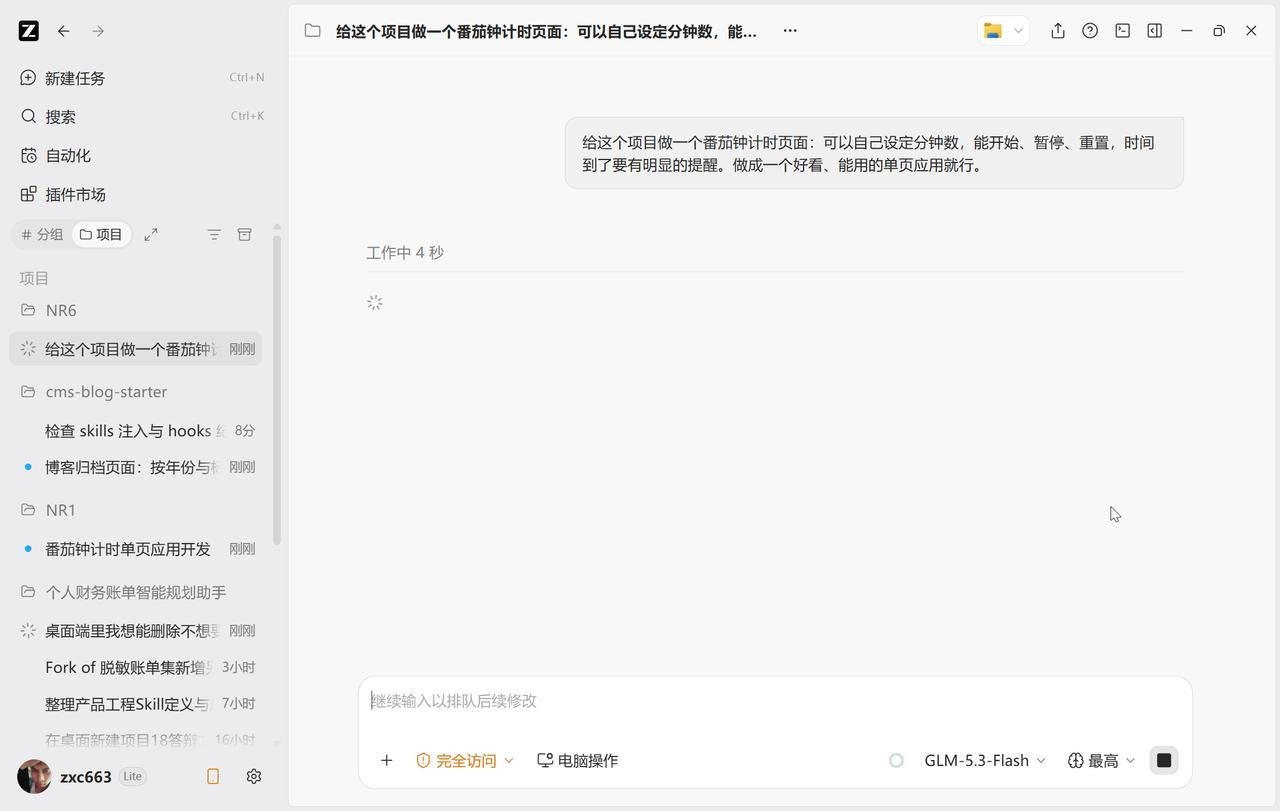
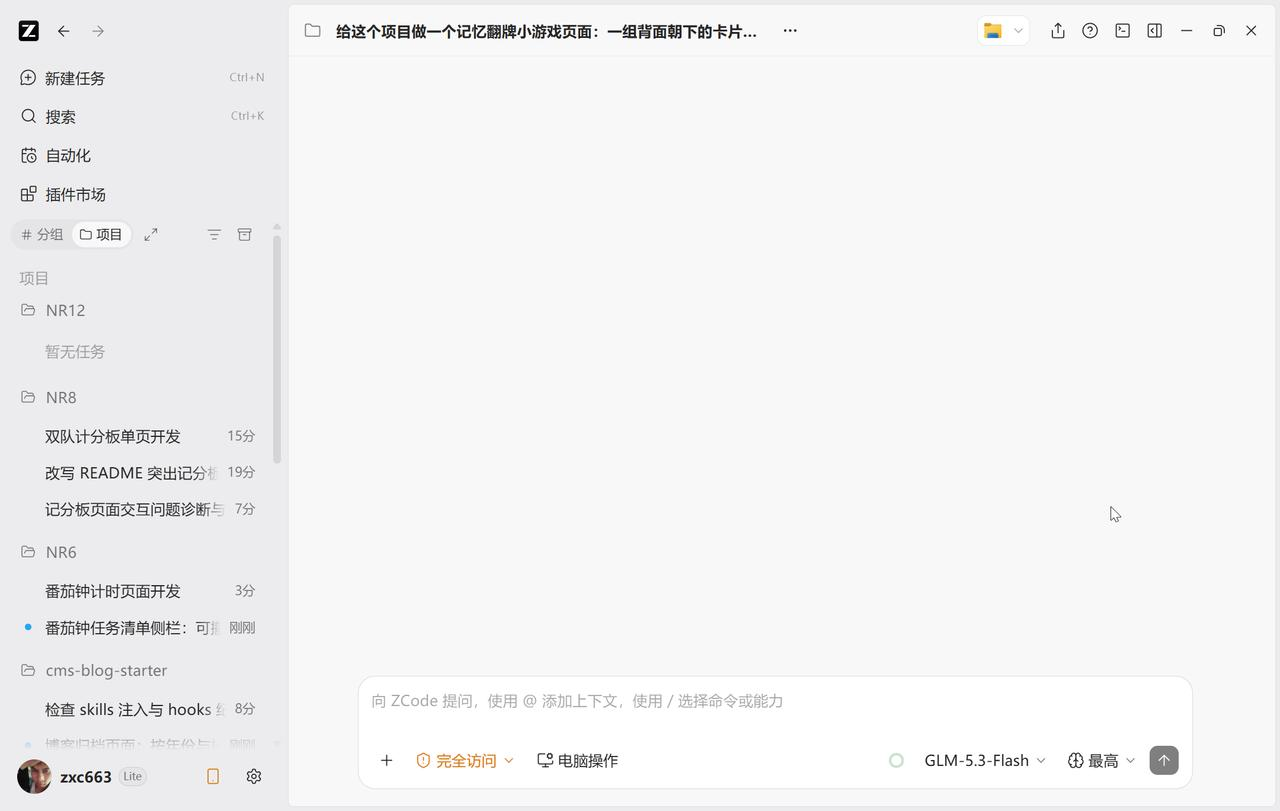
docs(收官): NR13 冷启动档3 完整自治闭环入档+product-object 行升三有齐（原生正例 fail→修→绿）+Release 端到端验证 8/8+批五流水+HANDOVER 终版；十三样本全判定

diff --git a/docs/HANDOVER.md b/docs/HANDOVER.md
@@ -5,7 +5,7 @@
 
 ## 一、现状一句话
 
-第四包 `shisan-xinuo-product` **v0.2.4** 双仓在线（家族 **v3.3.0**）。**2026-09-24 战役（01:38-09:00 无限授权批）完成历史性收口**：①**真实新会话生效链闭合**（原「最后一环」）——十个 CUA 真会话探针（NR1-NR10）实证：注入核心 zxc663 自检+hooks 双通道+复述/承载纪律全链生效；产品包自然触发曾失败（NR1）→断点定位（可见✅注入✅hooks✅→选择层）→v0.2.2 触发词前置→NR6/NR8/NR12 三样本触发成功（**A/B 终局：对照 0/1 vs 处理 3/3，三任务域**）②三触发族（「做一个XX页面」/审查「难用别扭」/档0 文案）×四档位（档0 豁免梯度 L1 快速通道 46 秒/档1 轻量/档2 全流程/档3 四件套含回归 golden sample）全走通 ③**L0/L5 判据空白双层闭合**（l0-l5-gate 第六门禁，11 格电池+真会话检出 3/3）④**七门禁台账全行有着落**（F2/F5 假阳假阴修复、F6 参数兼容、C7 真载体契约对账、usage-probe 衰减警报实弹、frontend-lint-gate 强制5/6 机器化）⑤四个 GitHub Release（v0.2.1-v0.2.4）⑥实践条款入本体（无人值守禁静默下沉/反借口 #12 通道归因隔离实验/档位判例 N8-1、N7-1）。全文：`docs/real-session/nr-batch1-judgment.md` + `docs/verification-ledger.md`（三有判据台账）。
+第四包 `shisan-xinuo-product` **v0.2.4** 双仓在线（家族 **v3.3.0**）。**2026-09-24 战役（01:38-09:00 无限授权批）完成历史性收口**：①**真实新会话生效链闭合**（原「最后一环」）——十个 CUA 真会话探针（NR1-NR10）实证：注入核心 zxc663 自检+hooks 双通道+复述/承载纪律全链生效；产品包自然触发曾失败（NR1）→断点定位（可见✅注入✅hooks✅→选择层）→v0.2.2 触发词前置→NR6/NR8/NR12 三样本触发成功（**A/B 终局：对照 0/1 vs 处理 3/3，三任务域**）②三触发族（「做一个XX页面」/审查「难用别扭」/档0 文案）×四档位（档0 豁免梯度 L1 快速通道 46 秒/档1 轻量/档2 全流程/档3 四件套含回归 golden sample）全走通 ③**L0/L5 判据空白双层闭合**（l0-l5-gate 第六门禁，11 格电池+真会话检出 3/3）④**七门禁台账全行有着落**（F2/F5 假阳假阴修复、F6 参数兼容、C7 真载体契约对账、usage-probe 衰减警报实弹、frontend-lint-gate 强制5/6 机器化；NR13 完整自治闭环=原生工件自跑门禁见红→修→绿）⑤四个 GitHub Release（v0.2.1-v0.2.4）⑥实践条款入本体（无人值守禁静默下沉/反借口 #12 通道归因隔离实验/档位判例 N8-1、N7-1）。全文：`docs/real-session/nr-batch1-judgment.md` + `docs/verification-ledger.md`（三有判据台账）。
 
 ## 二、必读清单（按序）
 
@@ -24,7 +24,7 @@
 
 1. **速裁包批复**（`docs/ruling-package.md`）：Q1-Q8 默认裁决追认／A/B 四指标口径追认／decision-ledger 漂移两案（建议合并入源库）／档0-档3 改名与触发词密集化追认——**一批全解，不阻塞任何主线**
 2. **触发 A/B 扩样**：NR6/NR8 为 N=2 处理组 vs NR1 对照——如需消除随机性，换任务域再加冷启动样本即可（SOP 见 nr-batch1-judgment §二）
-3. **会话原生 product-object JSON 正例**：无人值守轻量档不产 JSON 属设计内行为；待真实项目档2+ 任务由会话原生产出后，product-object-gate 行升满 ✅
+3. **~~会话原生 product-object JSON 正例~~（**已闭合**：NR13 原生产出+自跑见红+修绿，product-object 行升 ✅ 三有齐）
 4. **F1/F3 平台侧缺陷**（CLI provider 缺失／ponytail·ux-feature-design 双目录注册）——非 Skill 本体，待平台修复或用户裁决去重
 5. **Gitee 同步＋npm**（队列⑥残项）：Gitee 令牌格式问题待解（用户侧）；npm 打包价值待评估
 6. **两组工具箱浏览器人工走查｜G 档 §6 抖音关键帧**（需真人）
@@ -41,8 +41,8 @@
 
 | 仓 | 基线（2026-09-24 04:36） | 备注 |
 |---|---|---|
-| 设计部（本仓） | `1604414`（批四终局） | GitHub 已推同步；判定档/台账/判例/证据 34 件全在仓 |
-| 源库（家族） | `59098ea`（product v0.2.4） | 本地 git 仓（**无远端**——交接建议：源库入 git 远端，见下） |
+| 设计部（本仓） | `06:45 终批`（批五） | GitHub 已推同步；判定档/台账/判例/证据 34 件全在仓 |
+| 源库（家族） | `59098ea`（product v0.2.4，终版） | 本地 git 仓（**无远端**——交接建议：源库入 git 远端，见下） |
 | 安装根 | `~/.agents/skills/shisan-xinuo-product`＝源库逐字节一致（除 decision-ledger 已登记漂移） | 一致性判据=`diff -rq` 全目录 |
 | 注入副本 | 5 平台 v3.3.0 HASH-OK（`b9b00ca712cc`，本轮未动） | |
 | 实验/真会话工作区 | `D:/产品工程真会话-20260924/`（NR1-NR10+release-stage） | 证据已入仓；本体=独立 git 仓各自基线 |

diff --git a/docs/verification-ledger.md b/docs/verification-ledger.md
@@ -9,7 +9,7 @@
 | 条款 | 门禁 | 反例拦截（变异） | 预演运行（无头） | 真实载体运行 | 状态 |
 |---|---|---|---|---|---|
 | statechart C1-C7 | statechart-gate.py（--selftest 两态） | 四变异 A-D 全拦（reverse-injection/EVIDENCE.md，2026-09-23）+ **✅ C7 真载体双向对账电池**（NR7 契约正例+m1/m2 变异，product-object/C7-RESULTS.md） | N6d 投票/N6e 书签独立复跑绿 | **✅ NR6+NR7 真会话双 statechart（pomodoro/task-list 独立复跑双 exit=0；NR7 含 C7 契约对账）** | ✅ 三有齐 |
-| product-object P1-P4 | product-object-gate.py（selftest+语料正负） | **✅ NR6 真语料四变异全拦且归因精确**（mutation-batteries/product-object/，2026-09-24） | 试验仓语料转写+甲仓检出 10 缺口 | **✅ 真实语料正例 exit=0**（NR6 忠实转写；会话原生正例待真实项目档2+） | 🟡→✅（按诚实标注口径：转写正例升半格，原生正例缺项如实留） |
+| product-object P1-P4 | product-object-gate.py（selftest+语料正负） | **✅ NR6 真语料四变异全拦且归因精确**（mutation-batteries/product-object/，2026-09-24） | 试验仓语料转写+甲仓检出 10 缺口 | **✅ 会话原生正例已获**（NR13 notewall.object.json：会话自跑门禁见真红 P2→修→绿，主会话独立复跑互证；2026-09-24 06:3x） | ✅ 三有齐（原生正例为「fail→修→绿」形态，比纯放行更强） |
 | spec-trace T4/T5 | spec-trace-gate.py（selftest 4 断言含 F2 回归） | **✅ 变异电池 m1-m5 全拦+m6 假阳回归锚（mutation-batteries/spec-trace/，2026-09-24；F2 假阳已修：源库 03f7ab2=安装根）** | 闭环试验十环内用过（closed-loop-report） | **NR1 真会话** | 🟡 |
 | registry 查表归因 | registry-gate.py（selftest） | **✅ 博客仓真载体电池：基线+注入未标记新组件 exit=1 精确命中 NewUnmarked**（mutation-batteries/registry-blog/） | 闭环试验内 | **✅ 博客仓 194 组件**（基线 201 存量豁免/新组件精确逮/清理无残留，2026-09-24） | ✅ 三有齐 |
 | usage-probe 衰减 | usage-probe.py（selftest） | **✅ 警报实弹演练：财务仓 7 天零提及→exit=1 衰减警报如实触发**（2026-09-24；v0 语义=文本提及非真实触发，自带诚实边界） | — | **✅ 真会话工作区目录 90 提及/近窗 9 命中**（NR1-NR8 语料） | ✅ 三有齐（v0 口径） |

diff --git a/docs/real-session/nr-batch1-judgment.md b/docs/real-session/nr-batch1-judgment.md
@@ -18,6 +18,7 @@
 | NR10 | NR8 同项目续任务 | 档0 探针：README 单句文案换风格，「其他什么都别动」 | 档0（L1 快速通道） | ✅ 完案（04:24，46 秒） | **豁免梯度 ✅（成本防线）**：L1 快速通道自declared+极简 GATE（单句替换+grep/diff 验）+git diff 确认仅 1 行变更——档0 小改未被跑道重罚，「正确但昂贵」担忧被 §7 档0 豁免梯度实际化解 |
 | NR11 | 财务仓（大真实项目） | 审查触发跨项目：「统计页用着别扭，走查挑一两处小毛病修掉，别大改」 | 审查路径（档0-档1） | ✅ 完案（05:22，commit 93c5fb6，121 轮） | **审查触发×跨项目泛化 ✅**：两处修复（占比卡 echarts6 labelLine 锚点截断/趋势图峰值标注粒度对称）+IAB 真实库副本三视图×双主题走查+图例扇区回归+vite build 0 error+**发现未修 3 项诚实入册**；+36/-6 行；L-011 隐私清理自应用（删真实数据临时副本） |
 | NR12 | D:\产品工程真会话-20260924\NR12 | 记忆翻牌游戏（第三任务域冷启动 #4） | 档2 | ✅ 完案（05:54，commit 59b4111） | **产品包触发 ✅（F4 达 N=3）**：契约档+statechart JSON+承载三件；statechart-gate 自跑+独立复跑双 exit=0；8 项 GWT 实测全过（失配回翻/连击 2×/代际守卫/纪录持久）+修 2 坑（emoji 渐变块/720p 滚动条）+3 截图；诚实未验证=音效听感/触屏 |
+| NR13 | D:\产品工程真会话-20260924\NR13 | 便签墙（增/拖/删可撤销/持久化——冷启动×档3 判定样本） | 档3（冷启动自判正确） | ✅ 完案（06:35，commit a40ceb9） | **收官样本·完整自治质量闭环**：冷启动自判档3→原生三件套（object/statechart/contract JSON）→**会话自跑三门禁见真红**（P2 双核心任务/main_function 悬空；C7 recovery state=None+出边未登记）→修契约→复跑全绿→10+ 项实机走查+4 截图；主会话独立复跑全绿互证。**「产出→门禁检出→修复→绿」首次全链在原生工件上闭环** |
 
 ## 一、队列①「用户侧最终验收锚」判定：**前半已闭合 ✅**
 
